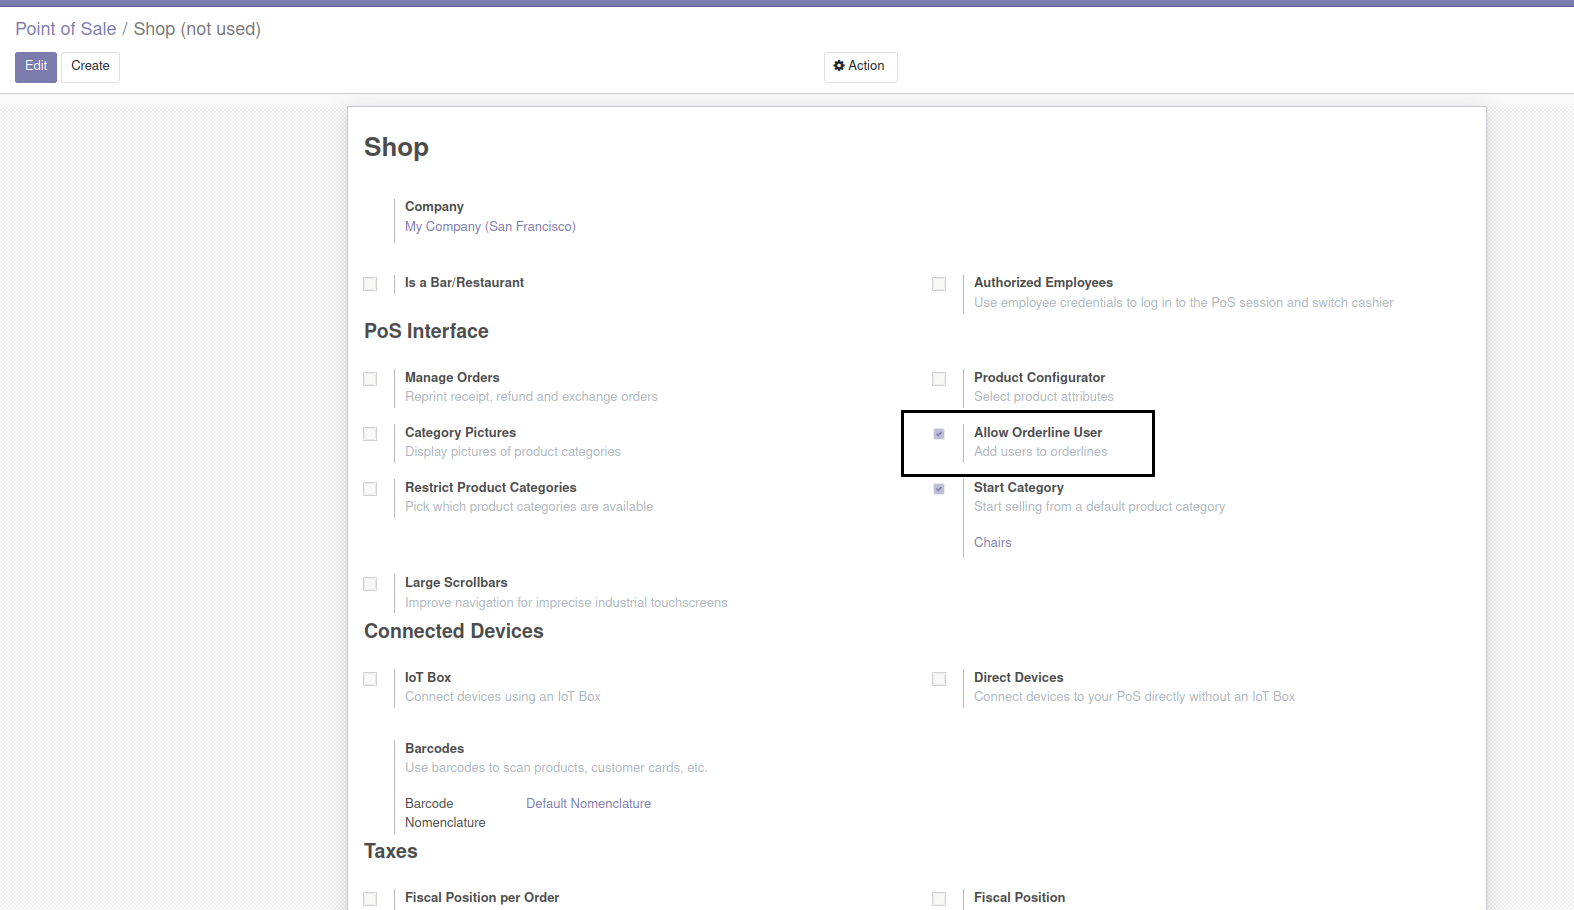
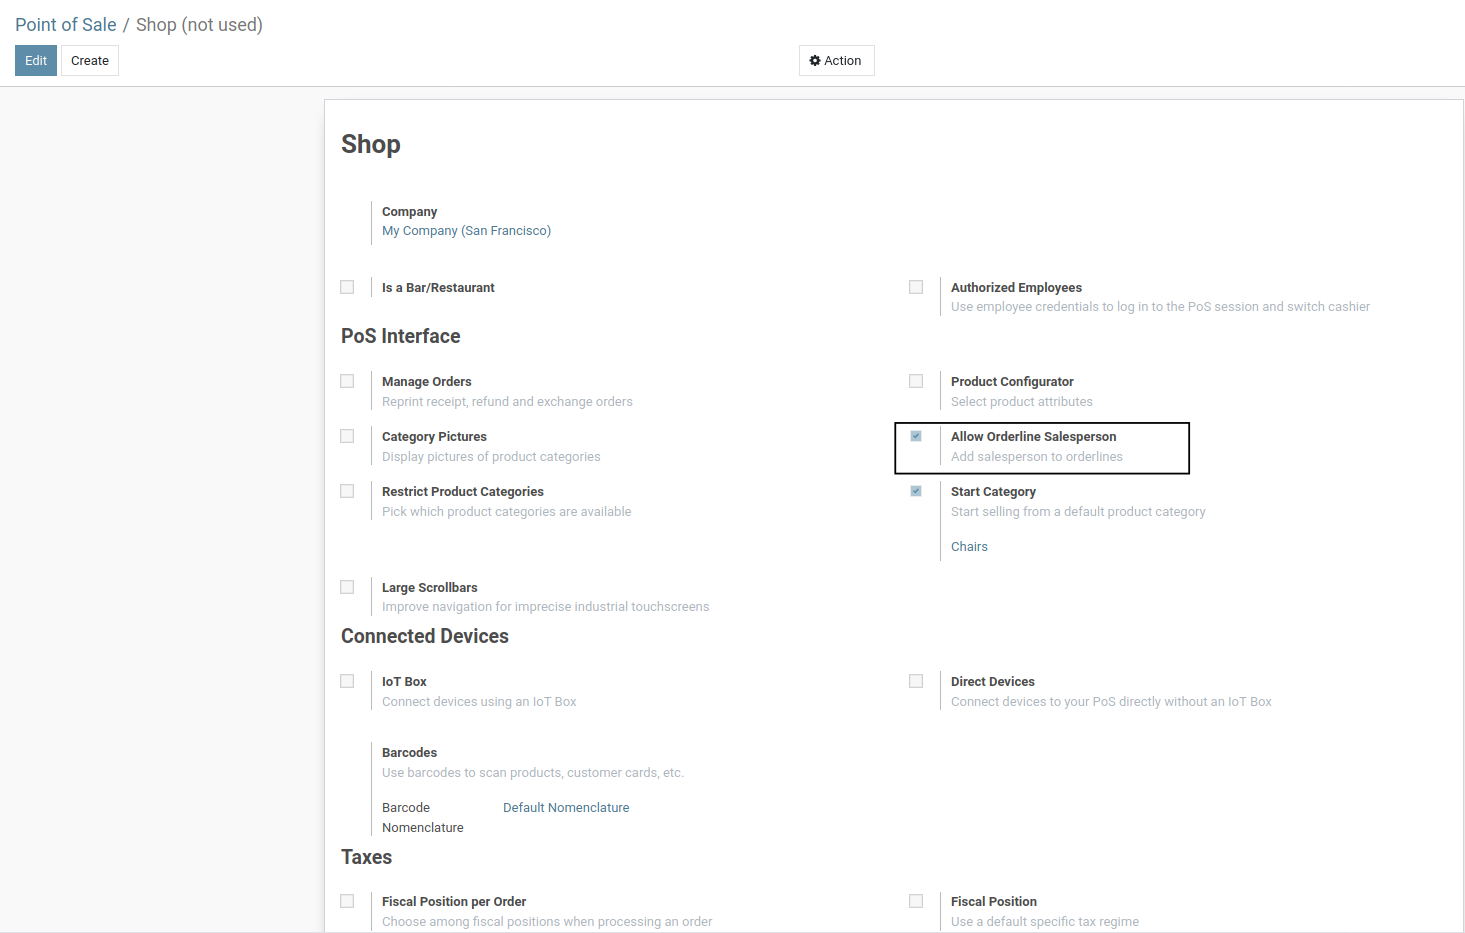
[Add] add description

diff --git a/pos_orderline_salesperson/static/description/index.html b/pos_orderline_salesperson/static/description/index.html
@@ -1,0 +1,94 @@
+<section class="oe_container oe_dark">
+    <div class="col-md-12">
+        <h2 class="oe_slogan" style="font-size: 35px;"><b>POS Orderline Salesperson</b></h2>
+    </div>
+</section>
+
+<section class="oe_container">
+    <div class="alert" style="color:black; background-color:#cddae8; border-color:black">
+        <i class="fa fa-hand-o-right"></i><b> Key Features</b>
+    </div>
+
+    <div class="oe_row oe_spaced">
+        <!-- <div style="text-align:left;"> -->
+            <ul>
+                <li style="font-size: 15px;">Add salesperson on pos orderline from pos.</li>
+                <li style="font-size: 15px;">Add salesperson in multi/single orderline in one click.</li>
+                <li style="font-size: 15px;">Allow change salesperson.</li>
+                <li style="font-size: 15px;">Show Salesperson in Order.</li>
+                <!-- <p class="fa fa-hand" style="font-size: 25px;">
+                    <span style="content: '•';font-size: 15px;">• Add salesperson on pos orderline from pos.</span>
+                </p><br/>
+                <p class="fa fa-hand" style="font-size: 25px;">
+                    <span style="font-size: 15px;">Add salesperson in multi/single orderline in one click.</span>
+                </p><br/>
+                <p class="fa fa-hand" style="font-size: 25px;">
+                    <span style="font-size: 15px;">Allow change salesperson.</span>
+                </p><br/>
+                <p class="fa fa-hand" style="font-size: 25px;">
+                    <span style="font-size: 15px;">Show Salesperson in Order.</span>
+                </p><br/> -->
+            </ul>
+        <!-- </div> -->
+        <!-- <br/> -->
+    </div>
+</section>
+
+
+<section class="oe_container">
+    <div class="oe_row oe_spaced">
+        <div class="oe_span12">
+            <h3 class="oe_slogan" style="color:#332c3c;font-size: 28px;">POS Config</h3>
+
+            <span style="font-size: 20px;">You need to check this box to show Salesperson from pos.</span>
+            <div class="oe_demo oe_picture oe_screenshot">
+                <img src="pos_config.png" style="height:400px;">
+            </div>
+        </div>
+    </div>
+</section>
+
+
+<section class="oe_container">
+    <div class="oe_row oe_spaced">
+        <div class="oe_span12">
+            <span style="color:#332c3c;font-size: 20px;">You can add salesperson from button for all orderline or can add from iconspecific line</span>
+            <div class="oe_demo oe_picture oe_screenshot">
+                <img src="click_button_to_open_wizard.png" style="height:400px;">
+            </div>
+        </div>
+    </div>
+</section>
+
+<section class="oe_container">
+    <div class="oe_row oe_spaced">
+        <div class="oe_span12">
+            <span class="oe_slogan" style="color:#332c3c;font-size: 20px;">Salesperson in orderline</span>
+            <div class="oe_demo oe_picture oe_screenshot">
+                <img src="select_user_and_change_from_line.png" style="height:400px;">
+            </div>
+        </div>
+    </div>
+</section>
+
+<section class="oe_container">
+    <div class="oe_row oe_spaced">
+        <div class="oe_span12">
+            <span class="oe_slogan" style="color:#332c3c;font-size: 20px;">Salesperson in orders.</span>
+            <div class="oe_demo oe_picture oe_screenshot">
+                <img src="user_orderline.png" style="height:400px;">
+            </div>
+        </div>
+    </div>
+</section>
+
+<section class="oe_container oe_dark">
+    <div class="oe_row ">
+        <div class="oe_slogan text-center">
+            <div style="color:#332c3c;">
+                <h3 style="font-size: 25px;">If you need any help, just contact us:</h3><br>
+                <h3 style="font-size: 20px;">Email: <a href="zeinababdelmonem9@gmail.com">zeinababdelmonem9@gmail.com</a> <br></h3>
+            </div>
+        </div>
+    </div>
+</section>

diff --git a/pos_orderline_salesperson/models/pos_config.py b/pos_orderline_salesperson/models/pos_config.py
@@ -5,4 +5,4 @@ from odoo import fields, models
 class PosConfig(models.Model):
     _inherit = 'pos.config'
 
-    allow_orderline_user = fields.Boolean(string='Allow Orderline User', help='Allow custom user on Orderlines')
+    allow_orderline_user = fields.Boolean(string='Allow Orderline Salesperson', help='Allow custom salesperson on Orderlines')

diff --git a/pos_orderline_salesperson/__manifest__.py b/pos_orderline_salesperson/__manifest__.py
@@ -16,6 +16,7 @@
         'static/src/xml/salesperson_popup.xml',
         'static/src/xml/salesperson.xml',
     ],
+    'license': 'LGPL-3',
     'installable': True,
     'application': True,
     'auto_install': False,
